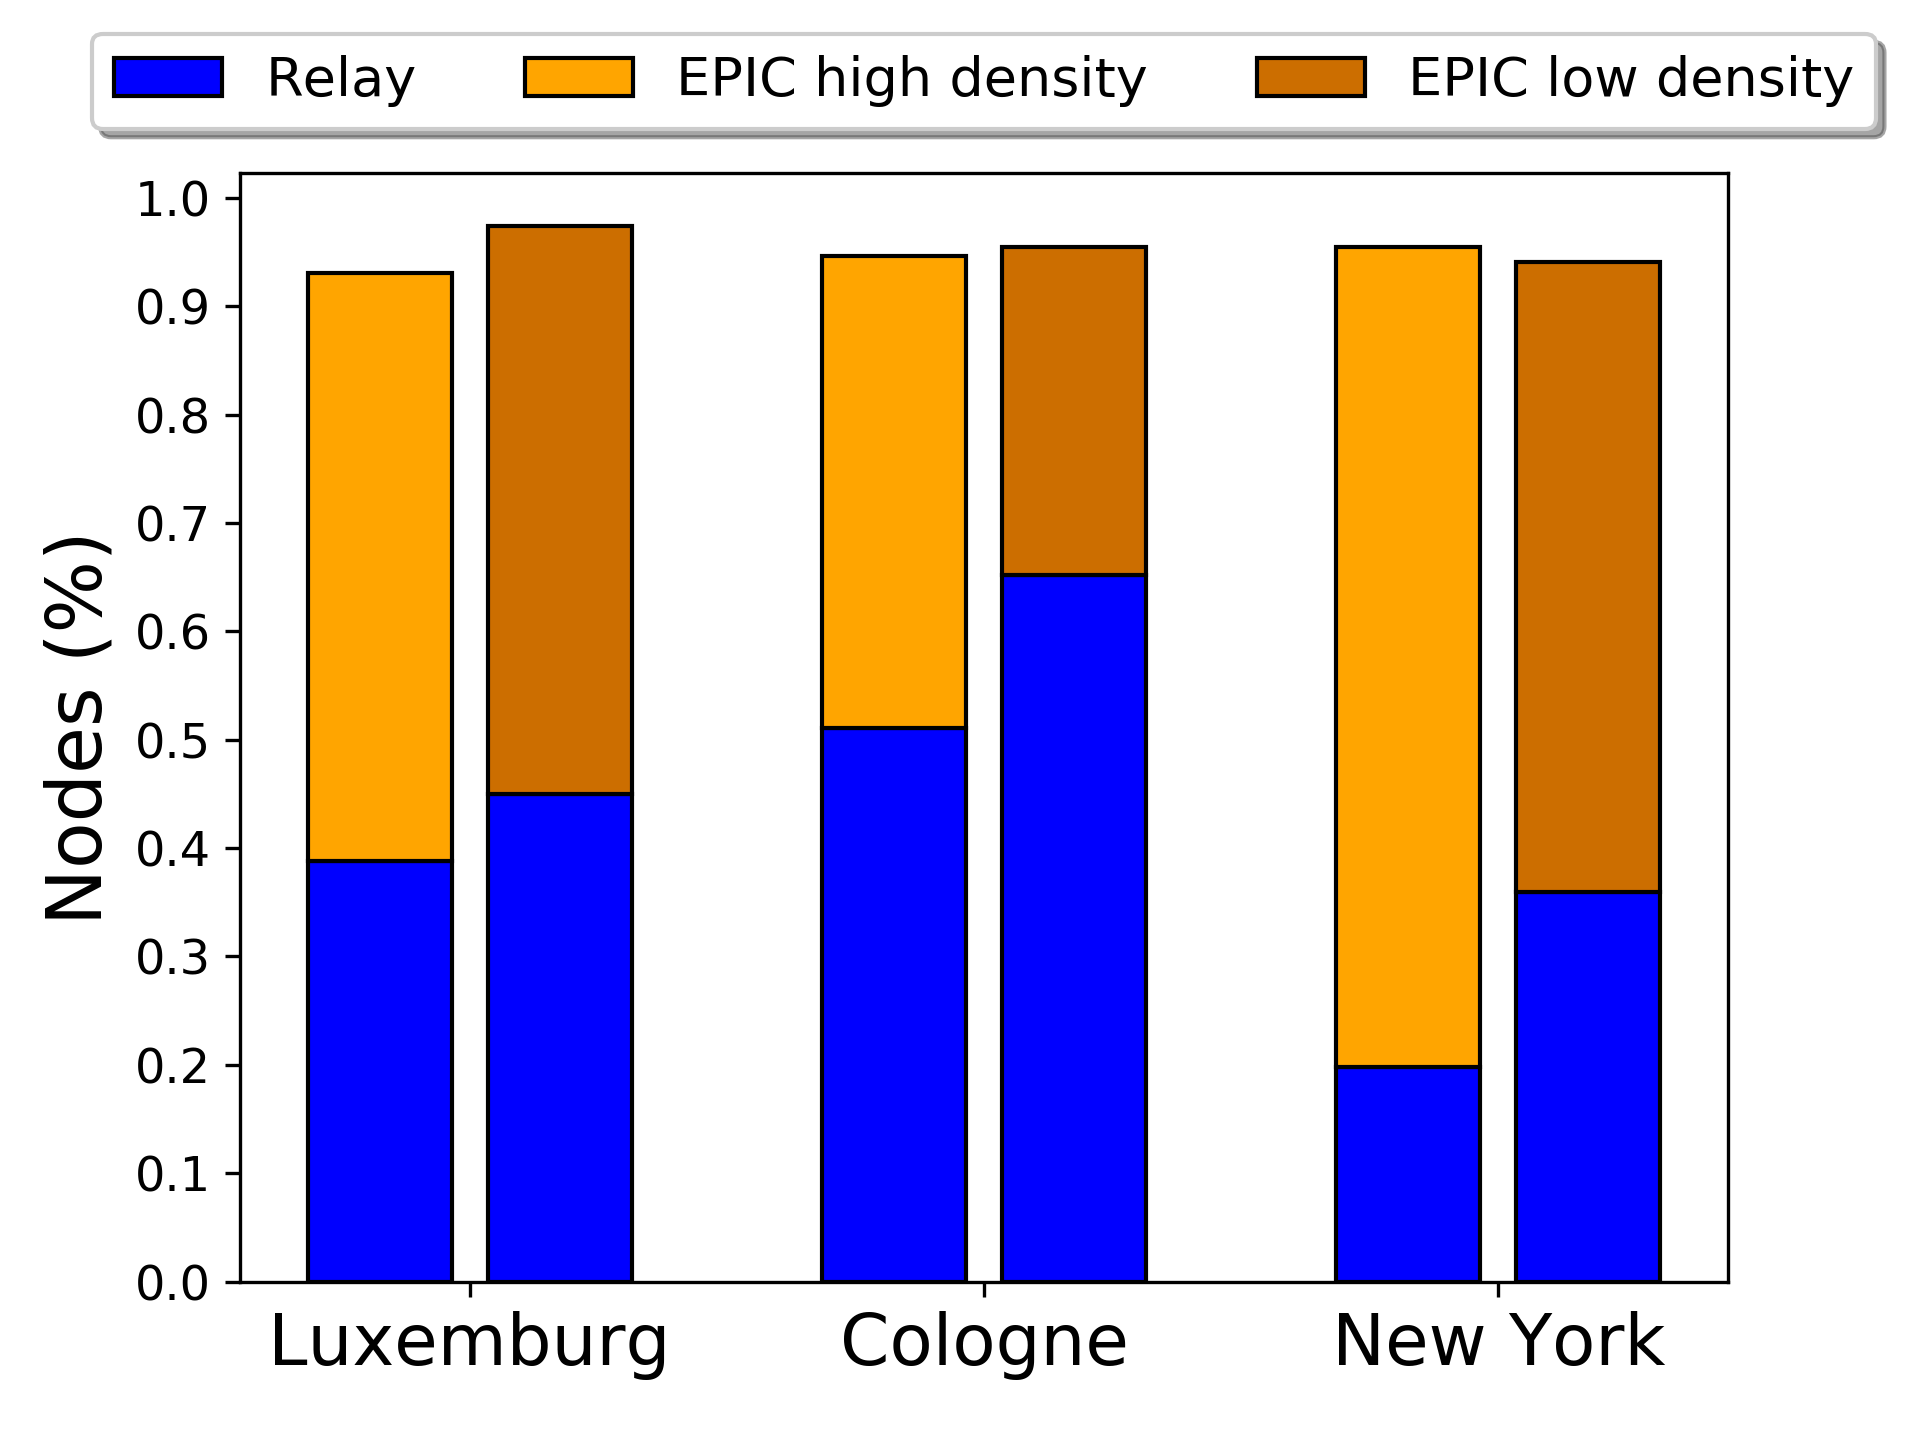
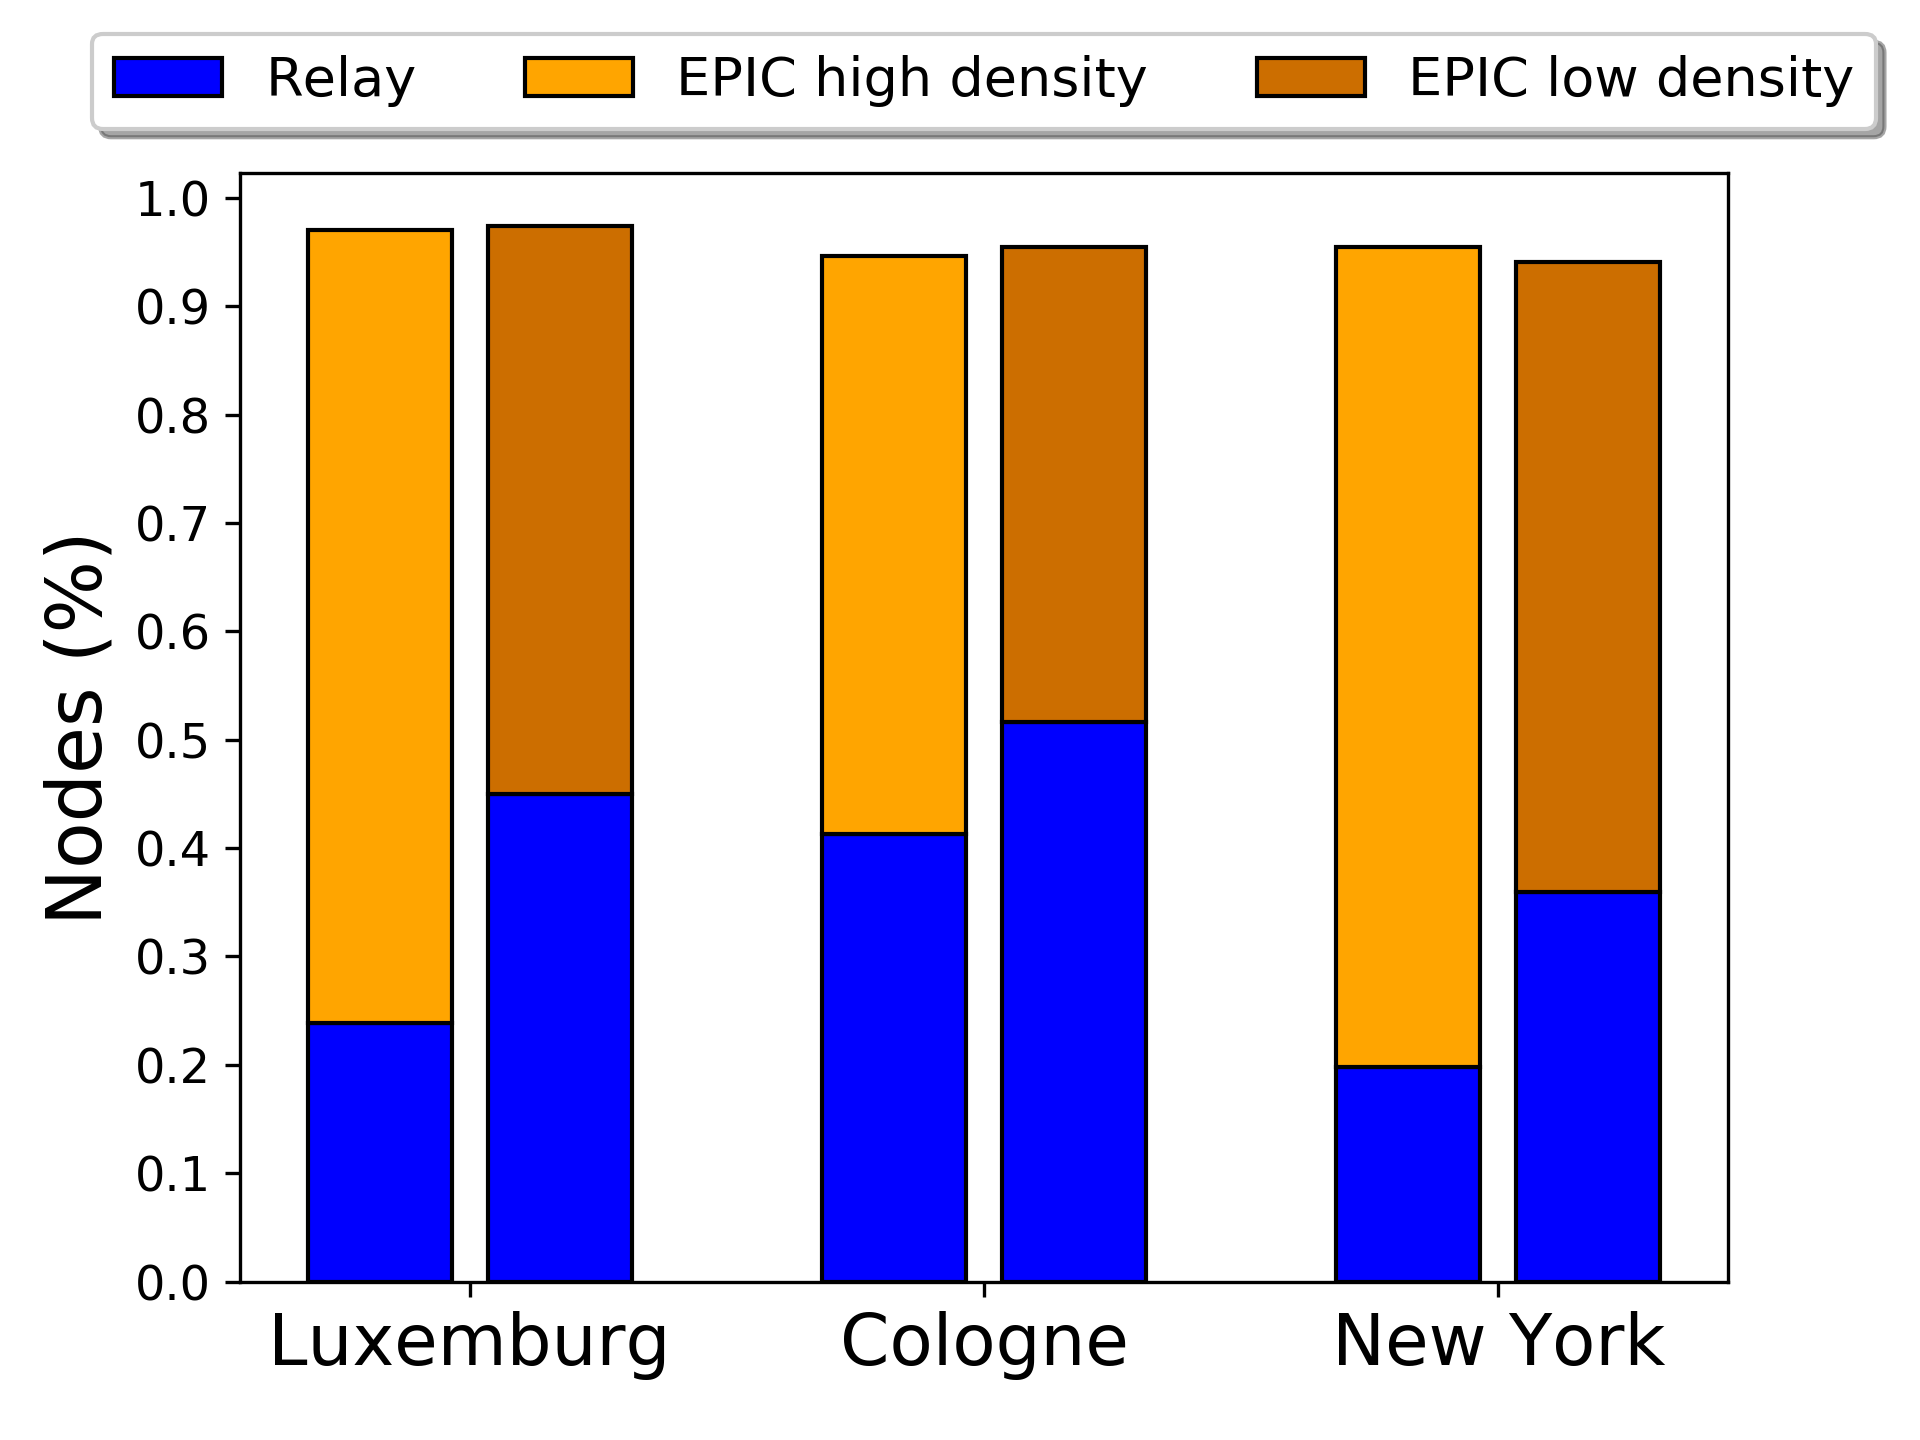
broadcast with alpha

diff --git a/grafici/graph-TC-forw-recv.py b/grafici/graph-TC-forw-recv.py
@@ -53,10 +53,10 @@ plt.rc('ytick', labelsize=11.5)
 
 
 N = 3
-means_infected_low = (0.9128-(305.71/787), 0.9542-(143.53/220), 0.9405-(155.61/433))
-means_frw_low = (355.48/790, 143.53/220, 155.61/433)
-means_infected = (0.9917-(355.48/790), 0.9463-(222.75/436), 0.9547-(118.63/600))
-means_frw = (305.71/787, 222.75/436, 118.63/600)
+means_infected_low = (0.9128-(305.71/787), 0.9542-(113.53/220), 0.9405-(155.61/433))
+means_frw_low = (355.48/790, 113.53/220, 155.61/433)
+means_infected = (0.97-(188.83/790), 0.9463-(180/436), 0.9547-(118.63/600))
+means_frw = (188.83/790, 180/436, 118.63/600)
 ind = np.arange(N)    # the x locations for the groups
 width = 0.28       # the width of the bars: can also be len(x) sequence
 

diff --git a/simulator.py b/simulator.py
@@ -57,7 +57,7 @@ class Simulator:
 		# Args
 		self.no_graphics = "--no-graphics" in sys.argv
 		if not self.no_graphics:
-			print('GUI mode, to disable it run with --no-graphics')
+			print('GUI mode, to disable it run with \'--no-graphics\'')
 
 
 
@@ -231,6 +231,6 @@ def performSimulations(n):
 
 if __name__ == "__main__":
 	if "--no-graphics" in sys.argv:
-		performSimulations(100)
+		performSimulations(400)
 	else:
 		performSimulations(1)
